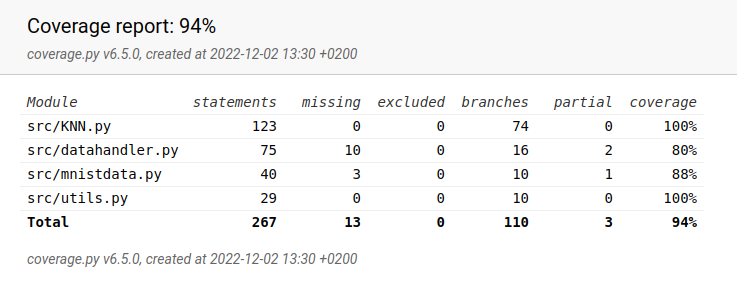
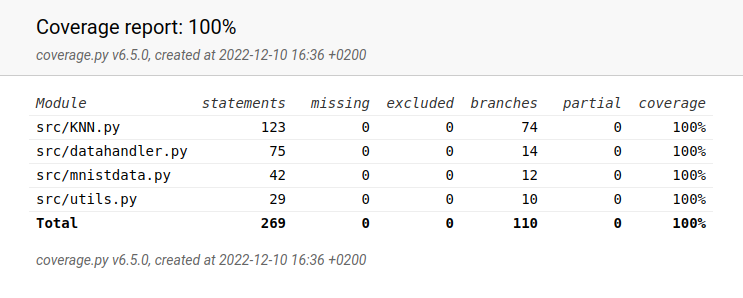
documentation update

diff --git a/dokumentaatio/manuaali.md b/dokumentaatio/manuaali.md
@@ -41,11 +41,13 @@ Ohjelma sisältää hyvin yksinkertaisen käyttöliittymän. Näkymissä voi lii
 
 ### Parametrien asetusnäkymä
 - tässä näkymässä asetetaan parametrit KNN:ää varten (tai jätetään oletukset voimaan)
-- testidatan alku ja loppuindeksi
-- opetusdatan alku ja loppuindeksi
-- HUOM!! ohjelma on vielä hyvin hidas. 10 000 datapistettä (testidata x opetusdata) kestää noin 80 sekuntia, joten älä aja äärimmäisen suurilla testi ja opetusjoukoilla
-- k-arvon (eli kuika monta lähintä naapuria KNN etsii luokittelua varten)
-- "kerrosten" määrän: tämä on sisäisen toteutuksen optimointiin vaikuttava parametri. Ei vaikuta tulokseen, vaikuttaa marginaalisesti nopeuteen. Kannattaa pitäää välillä välillä 5-7. 
+    - testidatan alku ja loppuindeksi
+    - opetusdatan alku ja loppuindeksi
+    - HUOM!! ohjelma on vielä hyvin hidas. 10 000 datapistettä (testidata x opetusdata) kestää noin 80 sekuntia, joten älä aja äärimmäisen suurilla testi ja opetusjoukoilla
+    - k-arvon (eli kuika monta lähintä naapuria KNN etsii luokittelua varten)
+    - "kerrosten" määrän: tämä on sisäisen toteutuksen optimointiin vaikuttava parametri. Ei vaikuta tulokseen, vaikuttaa marginaalisesti nopeuteen. Kannattaa pitäää välillä välillä 5-7. 
+- parametrien asetusnäkymässä tulee painaa "Aseta parametrit", vasta tämä asettaa uudet parametrit
+- "Suorita laskenta annetuilla parametreilla" suorittaa KNN-laskennan
 
 ![parameters](https://github.com/miahro/tiralabra-knn/blob/main/dokumentaatio/kuvat/parameters_view.png)
 
@@ -53,16 +55,16 @@ Ohjelma sisältää hyvin yksinkertaisen käyttöliittymän. Näkymissä voi lii
 ### Tulosnäkymä
 - näyttää tulokset
  - oikein tunnisttettujen määrän
- - väärin tunnistettujen määrän
- - suoritusajan
- - väärin tunnistettujen indeksit
- - väärin tunnistettujen indeksit alkuperäisessä MNIST tietokannassa
- - väärin tunnistetut numerot
- - ennustetut numerot (50 ensimmäistä, jos numeroita on enemmään)
- - oikeat numerot (50 ensimmäistä, jos numeroita on enemmän)
- - harmaasuodattimen arvon
- - k-arvon
- - kerrosten määrän
+    - väärin tunnistettujen määrän
+    - suoritusajan
+    - väärin tunnistettujen indeksit
+    - väärin tunnistettujen indeksit alkuperäisessä MNIST tietokannassa
+    - väärin tunnistetut numerot
+    - ennustetut numerot (50 ensimmäistä, jos numeroita on enemmään)
+    - oikeat numerot (50 ensimmäistä, jos numeroita on enemmän)
+    - harmaasuodattimen arvon
+    - k-arvon
+    - kerrosten määrän
 - voidaan myös näyttää testidatan käsinkirjoitettu numero:
     - syötä kuvan indeksi
     - valitse näytä kuva

diff --git a/dokumentaatio/testaus.md b/dokumentaatio/testaus.md
@@ -10,15 +10,18 @@
 - testikattavuus on 94%. Testaamatta jäävät tapaukset liittyvät lähinnä tiedostojen luontiin, mutta näien toimivuus on todettu manuaalisesti
 
 
-## Testikattavuus
+### Testikattavuus
 ![Testikattavuusraportti](https://github.com/miahro/tiralabra-knn/blob/main/dokumentaatio/TestCoverageReport.png)
+
+## Järjestelmätestaus
+Järjestelmätestausta on suoritettu manuaalisesti, havaitut ongelmat on korjattu.
 
 ## Suorituskykytestaus
 Ohjelman suorituskykyä on testattu erillisellä ohjelmalla (yksinkertainen python main-ohjelma, joka vain luuppaa datahandler oliota eri parametreillä). Suorituskyvyn testaamisessa on haettu parhaiten toimivia parametrejä:
 - nopeuden suhteen
 - tunnistamisen oikeellisuuden suhteen
 
-Johtuen ohjelman hitaudesta, testaamiseen käytetyt data-joukot ovat pienehköjä. Oikeiden numeroiden tunnistamisessa on selvästi satunnaisvaihtelua; X 
+Johtuen ohjelman hitaudesta, testaamiseen käytetyt data-joukot ovat pienehköjä. Oikeiden numeroiden tunnistamisessa on selvästi vaihtelua riippuen valitusta datajoukosta. 
 
 ### kerrosten optimointi
 Kerrosten (eli kuin läheltä pistettä haetaan kuvan lähintä pistettä boolean matriisista) vaikutusta ajoaikaan on tutkittu muuttamalla "kerrokset" parametria välillä 1-8. Kerrosten määrä ei vaikuta tulosten oikeellisuuten, vain ajoaikaan. 
@@ -103,5 +106,5 @@ Numero 4 oli siis selkeästi vaikein tunnistaa.
 
 
 ## Koodin laadunseuranta
-- koodin pylint arvo on 9.68/10
+- koodin pylint arvo on 9.83/10
 - käyttöliittymä ja testit eivät ole mukana pylint arviossa

diff --git a/dokumentaatio/tuntikirjanpito.md b/dokumentaatio/tuntikirjanpito.md
@@ -27,15 +27,20 @@ Tiralabra käytetyt tunnit.
 | 5 | 1.12. |  8    | yksikkötestejä, bugikorjauksia, dokumentaatiota, koodin laadun parantamista, käyttöliittymän patantaminen |
 | 5 | 2.12. |  8    | suorituskykytestejä, bugikorjauksia ja pieniä parannuksia, dokementointia |
 | 5 | 3.12. |  3    | suorituskykytestejä, dokementointia |
+| 6 | 8.12. |  7    | vertaisarvioitu toinen työ, yritetty toteuttaa laskentaa bittimatriisiesityksenä ja bittioperaatioilla |
+| 6 | 9.12. |  8    | laajennettu yksikkötestausta, korjattu käyttöliittymän virheitä, siistitty koodia, lisätty kommentteja ja docstringejä |
+| 6 | 10.12. |  6   | manuaalista testausta, testattu toimintaa virtuaalikoneella, dokumentoinnin päivitystä, koodin tyylin ja kommenttien parantamista |
+
+
 
 **Yhteensä**
 | viikko | aika |
 | :---:| :---:|
-| 1   | 13   | 
+| 1   | 13   |
 | 2   | 26   | 
 | 3   | 25   | 
 | 4   | 28   | 
 | 5   | 25   | 
-| 6   | x   | 
-| yht | 117 |
+| 6   | 21   | 
+| yht | 138 |
 

diff --git a/dokumentaatio/toteutus.md b/dokumentaatio/toteutus.md
@@ -1,6 +1,5 @@
 # Toteutusdokumentti
 
-Hyvin keskeneräinen toteutusdokumentti
 
 ## Rakenne
 
